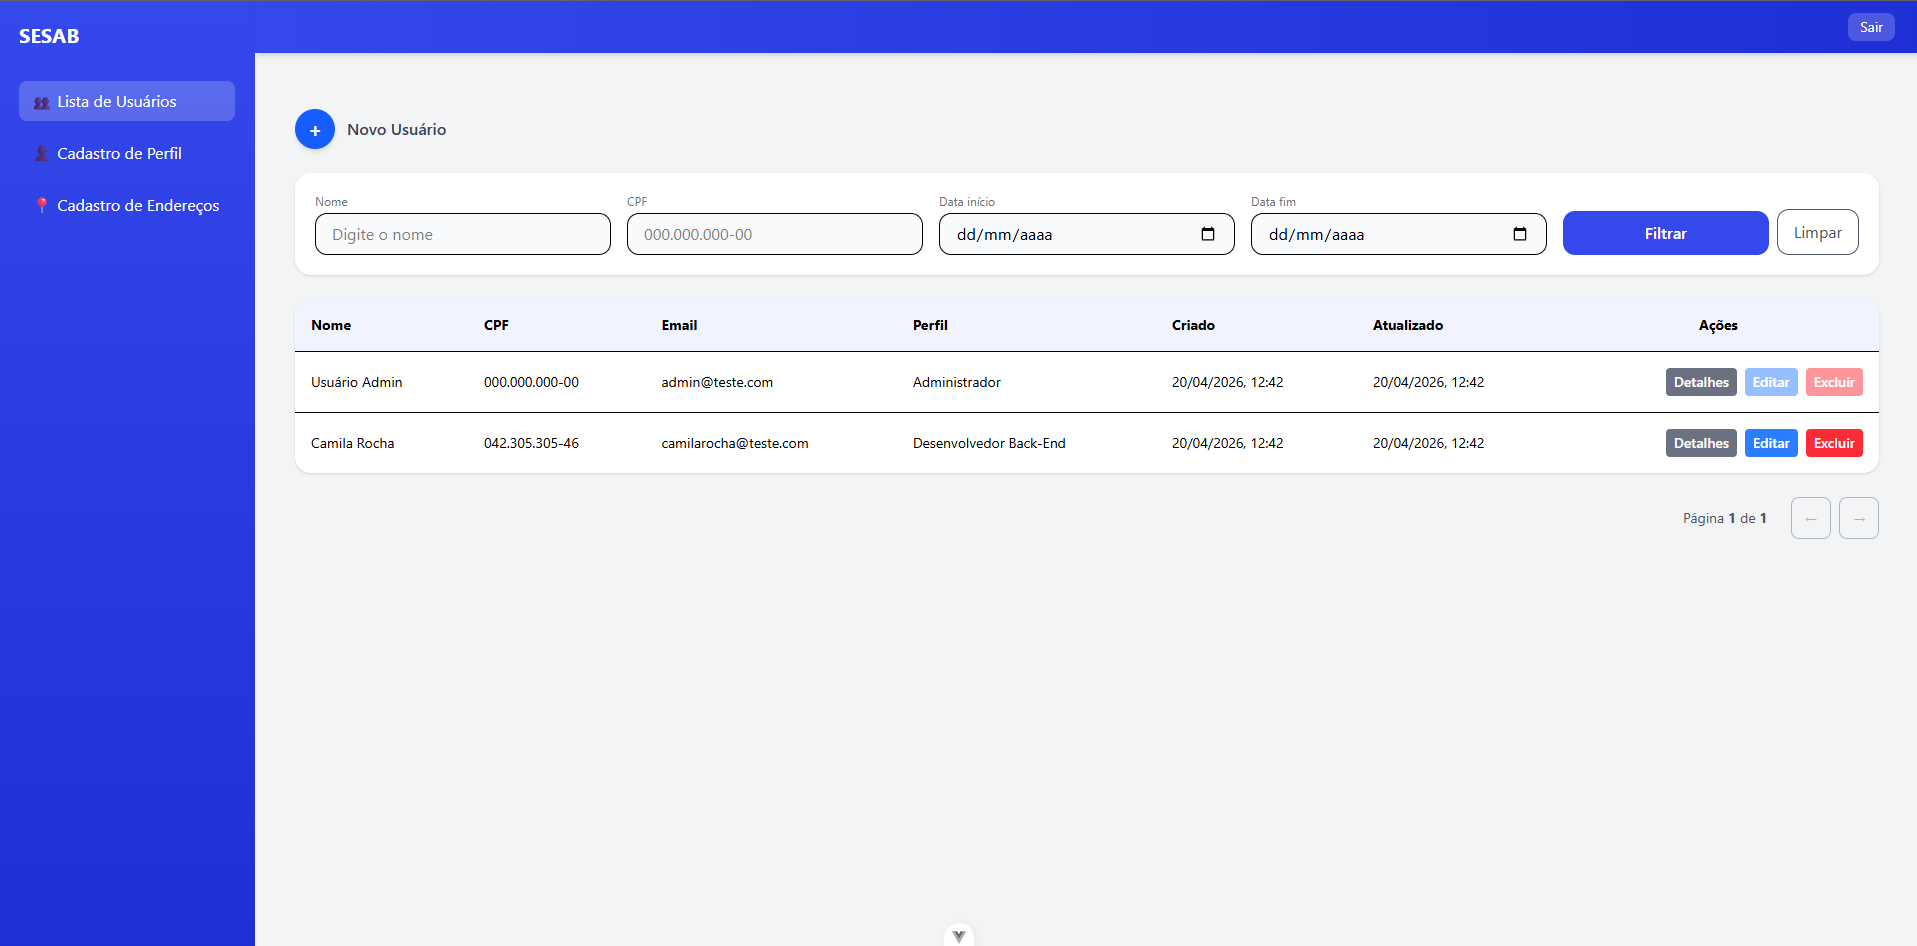
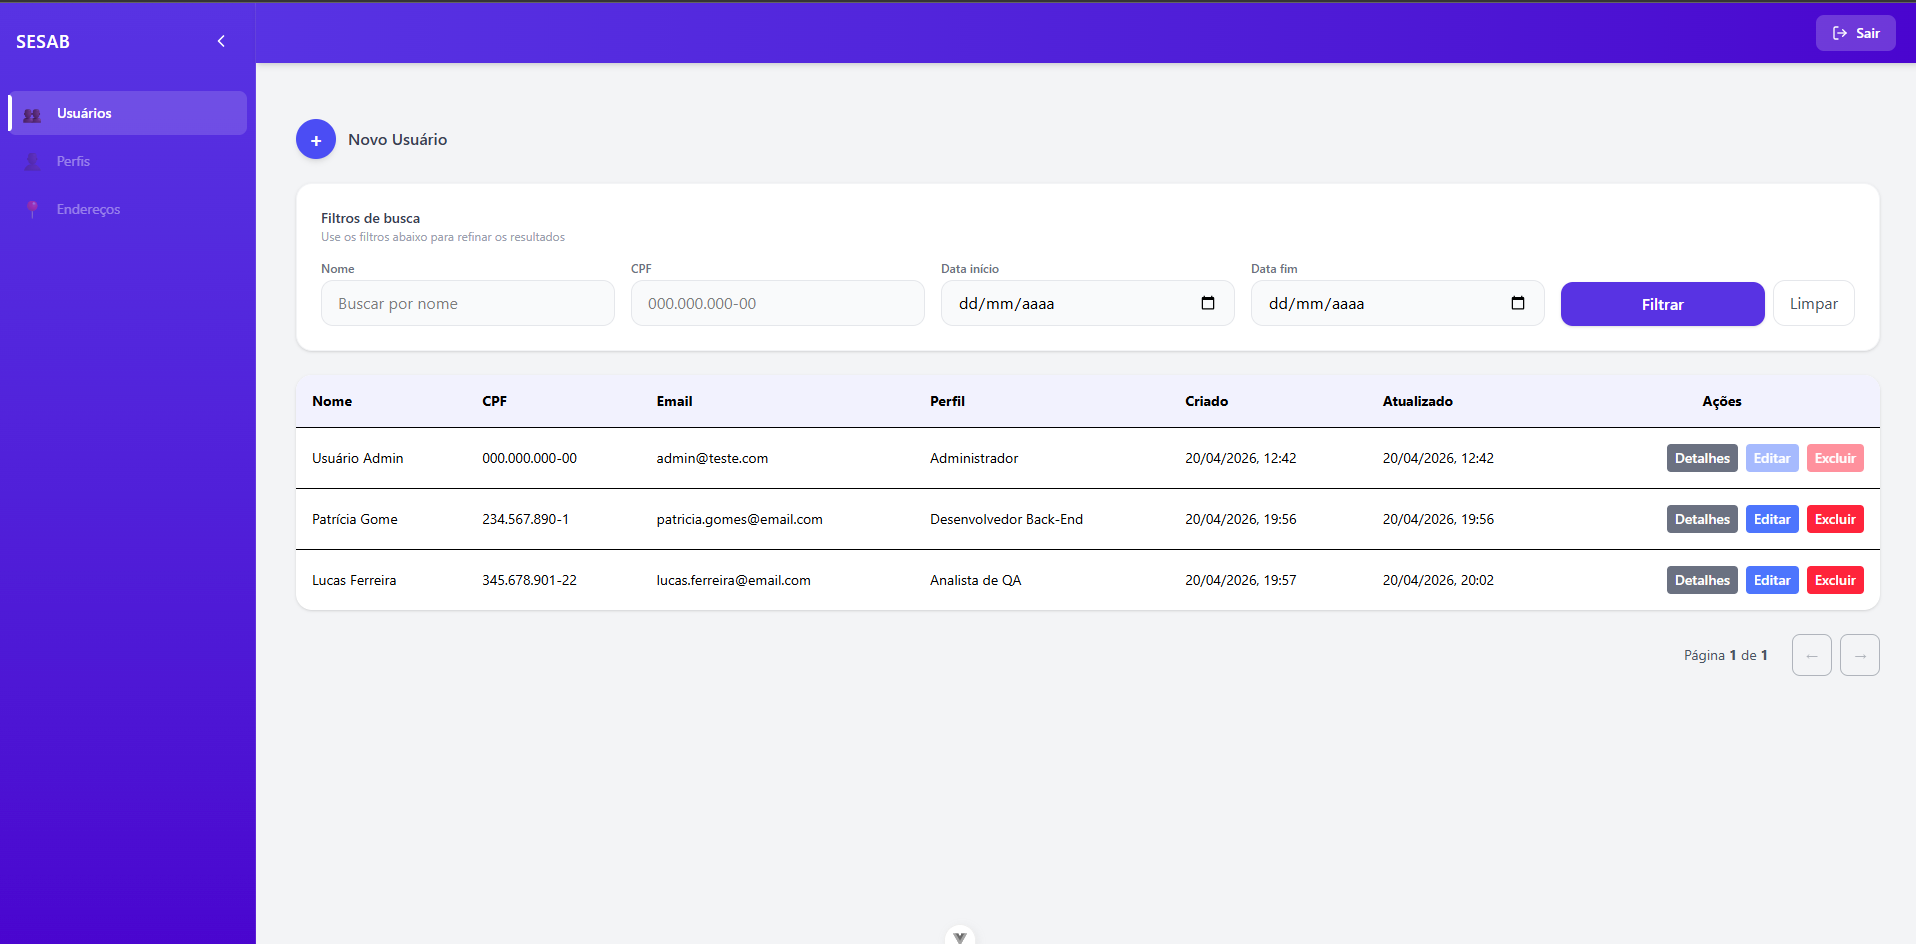
Melhora o estilo e a acessibilidade dos filtros de busca no componente Users.vue

diff --git a/src/views/User/Users.vue b/src/views/User/Users.vue
@@ -211,47 +211,57 @@ const isSelf = (user) => user.id === currentUser.value.id;
     </div>
 
     <!-- FILTROS -->
-    <div class="bg-white p-5 rounded-2xl shadow-sm mb-6">
+    <div class="bg-white p-6 rounded-2xl shadow-sm mb-6 border border-gray-100">
+      <!-- HEADER (opcional, dá cara de painel) -->
+      <div class="mb-4">
+        <h3 class="text-sm font-semibold text-gray-700">Filtros de busca</h3>
+        <p class="text-xs text-gray-400">
+          Use os filtros abaixo para refinar os resultados
+        </p>
+      </div>
+
       <!-- GRID -->
       <div class="grid grid-cols-1 md:grid-cols-5 gap-4">
         <!-- NOME -->
         <div class="flex flex-col">
-          <label class="text-xs text-gray-500 mb-1">Nome</label>
+          <label class="text-xs font-medium text-gray-500 mb-1">Nome</label>
           <input
             v-model="nome"
-            placeholder="Digite o nome"
-            class="px-4 py-2 border rounded-xl bg-gray-50 focus:bg-white focus:outline-none focus:border-[#3448EB] transition"
+            placeholder="Buscar por nome"
+            class="px-4 py-2.5 rounded-xl border border-gray-200 bg-gray-50 focus:bg-white focus:border-[#3448EB] focus:ring-2 focus:ring-[#3448EB]/10 outline-none transition"
           />
         </div>
 
         <!-- CPF -->
         <div class="flex flex-col">
-          <label class="text-xs text-gray-500 mb-1">CPF</label>
+          <label class="text-xs font-medium text-gray-500 mb-1">CPF</label>
           <input
             v-model="cpf"
             @input="cpf = formatCPF($event.target.value)"
             placeholder="000.000.000-00"
-            class="px-4 py-2 border rounded-xl bg-gray-50 focus:bg-white focus:outline-none focus:border-[#3448EB] transition"
+            class="px-4 py-2.5 rounded-xl border border-gray-200 bg-gray-50 focus:bg-white focus:border-[#3448EB] focus:ring-2 focus:ring-[#3448EB]/10 outline-none transition"
           />
         </div>
 
         <!-- DATA INÍCIO -->
         <div class="flex flex-col">
-          <label class="text-xs text-gray-500 mb-1">Data início</label>
+          <label class="text-xs font-medium text-gray-500 mb-1"
+            >Data início</label
+          >
           <input
             type="date"
             v-model="dataInicio"
-            class="px-4 py-2 border rounded-xl bg-gray-50 focus:bg-white focus:outline-none focus:border-[#3448EB] transition"
+            class="px-4 py-2.5 rounded-xl border border-gray-200 bg-gray-50 focus:bg-white focus:border-[#3448EB] focus:ring-2 focus:ring-[#3448EB]/10 outline-none transition"
           />
         </div>
 
         <!-- DATA FIM -->
         <div class="flex flex-col">
-          <label class="text-xs text-gray-500 mb-1">Data fim</label>
+          <label class="text-xs font-medium text-gray-500 mb-1">Data fim</label>
           <input
             type="date"
             v-model="dataFim"
-            class="px-4 py-2 border rounded-xl bg-gray-50 focus:bg-white focus:outline-none focus:border-[#3448EB] transition"
+            class="px-4 py-2.5 rounded-xl border border-gray-200 bg-gray-50 focus:bg-white focus:border-[#3448EB] focus:ring-2 focus:ring-[#3448EB]/10 outline-none transition"
           />
         </div>
 
@@ -259,15 +269,14 @@ const isSelf = (user) => user.id === currentUser.value.id;
         <div class="flex items-end gap-2">
           <button
             @click="buscarUsers(1)"
-            class="cursor-pointer flex-1 py-2.5 rounded-xl text-white font-medium transition hover:scale-[1.02] active:scale-[0.98]"
-            style="background: #3448eb"
+            class="cursor-pointer flex-1 py-2.5 rounded-xl text-white font-medium bg-[#3448EB] hover:bg-[#2f3ed6] active:scale-[0.98] transition-all shadow-sm"
           >
             Filtrar
           </button>
 
           <button
             @click="limparFiltros"
-            class="cursor-pointer px-4 py-2.5 rounded-xl border text-gray-600 hover:bg-gray-100 transition"
+            class="cursor-pointer px-4 py-2.5 rounded-xl border border-gray-200 text-gray-600 hover:bg-gray-100 active:scale-[0.98] transition"
           >
             Limpar
           </button>
